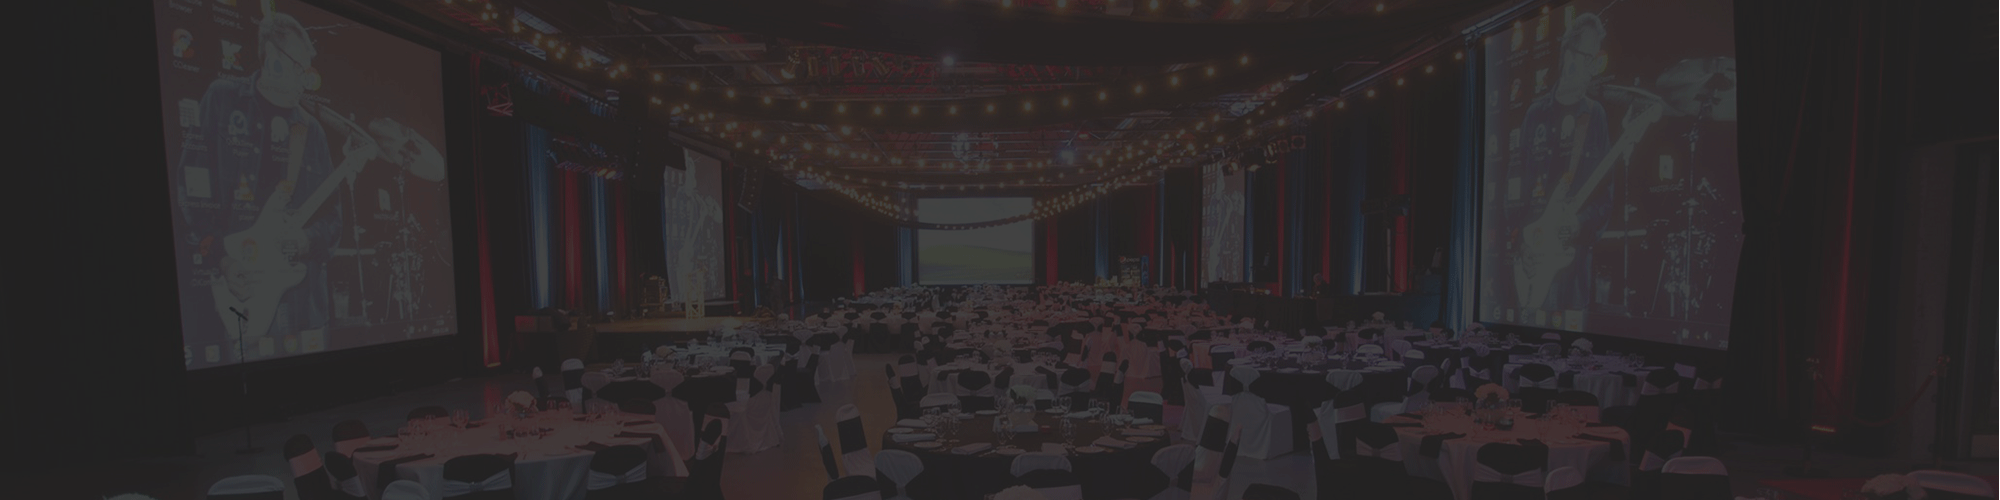
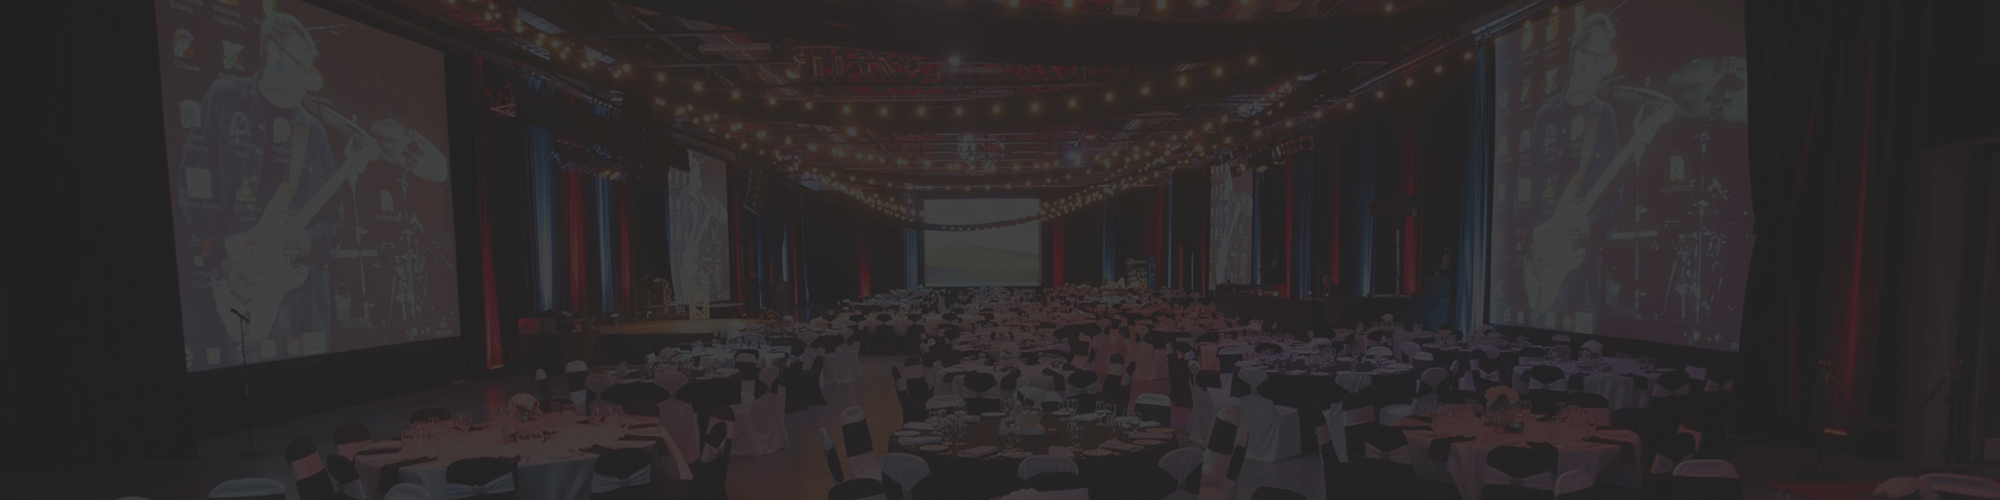
background boutique

diff --git a/src/www/boutique.php b/src/www/boutique.php
@@ -5,6 +5,10 @@
         
         <header>
             <?php include'../includes/nav.php'; ?>
+            <div class="background-img hidden-xs">
+                <img src="assets/images/background-boutique.png" class="img-responsive center-block" alt="Formations et événements">
+                <h1>BOUTIQUE</h1>
+            </div> 
         </header>
 
         <!-- Main -->
